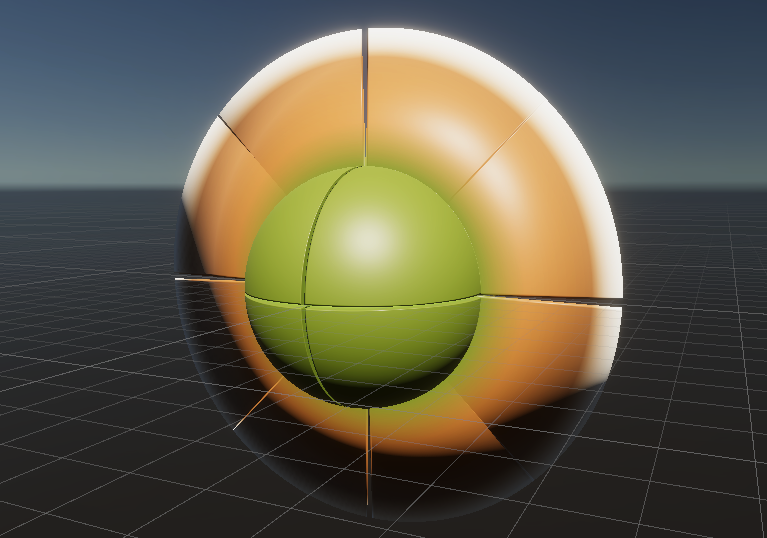
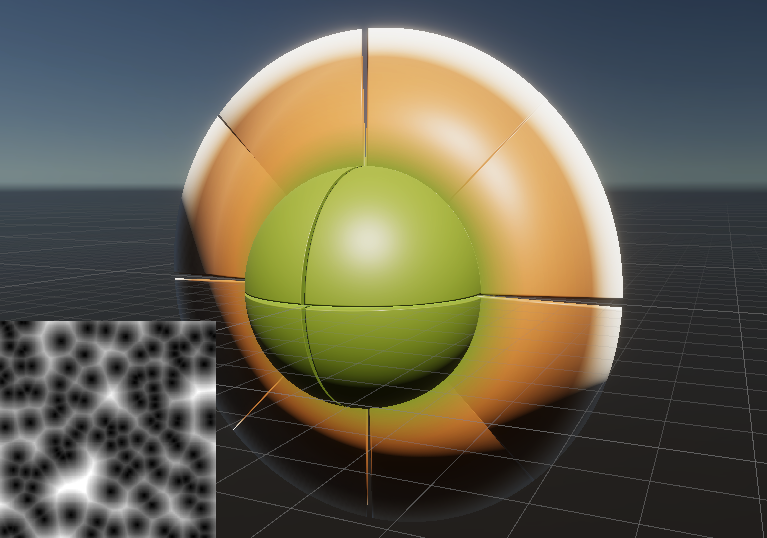
more entries!!

Changed region(s): [[0.0, 0.5948, 0.2999, 1.0]]

diff --git a/src/routes/+page.svelte b/src/routes/+page.svelte
@@ -11,15 +11,21 @@
     </div>
     <div class="jorunal">
         <JournalEntry
-        entry_title = "Making Our Own Filter! (Really Cool)"
+        entry_title = "Implementing Worley Noise (Part 1)"
         entry_date = "2023-05-17"
         entry_image =  {{
-            src: "4.png",
-            id: "4",
-            text: ":)",
+            src: "5.png",
+            id: "5",
+            text: "First try at implementing Worley noise. Bottom left corner shows an image of what Worley noise is supposed to look like.",
             desc: "Procedurally generated planet"
             }}
-        entry_text = "Yepp that's it!
+        entry_text = "Worley noise is probably the last thing anyone would associate with planetary surfaces. But in our space, everything is possible.
+
+        When creating Worley noise, a few seed points are randomly picked/generated before calculating the distance from every other point to the closest seed point. The noise value for each point corresponds to the distance to the closest seed point. There are different flavours of Worley noise where it does not necessarily have to be the closest seed point.
+
+        Trying to implement this algorithm did not got very well as can be seen in the image. This might be more difficult that what we initially thought.
+
+        To be continued.
         "
         />
         <!------------------------------------------------------------->
@@ -34,7 +40,11 @@
             }}
         entry_text = "Ahh, an exquisite piece of planetary marvel! Since last time, we have implemented a new type of noise filter and added a simple shader to our planet. 
         
-        ...
+        Mountains in the real world are seldom cone shaped. More often, they are ridge shaped! The new noise filter type is creating this feature by taking the absolute value and inverting the original simplex noise. To make the ridges more distinct, the resulting value is squared. The code was modified to support multiple types of noise filters. This opens up to the possibility of easily adding additional noise filters in the future.
+
+        Next up: shader. We wanted to colour our planet based on the elevation. The first step was finding the highest and lowest point on our planet. The minimum and maximum elevation can be set at the same time that we are evaluating the elevation of each point on our sphere by checking if the elevation of a point is smaller than the minimum or larger than the maxium. The next step is creating the shader. This is easy to do in Unity. The elevation of a pixel on the planet is converted to a value between zero and one based on where it lies between the minimum and maxiumum elevation. The next step was mapping a gradient to these values and boom! Earth 2.0. As we can see in the image, the ocean, which has the lowest elevation, is coloured blue while land is green and mountain tops are snow white.
+        
+        Up to this point, we have followed Sebastian Lague's tutorial on procedural planets. We have learned a lot about how to use noise to procedurally generate planets. Furthermore, we have gained a lot of experience in working with Unity, which we all had limited experience with before this project. Our next step will be to add another noise filter.
         "
         />
         <!------------------------------------------------------------->
